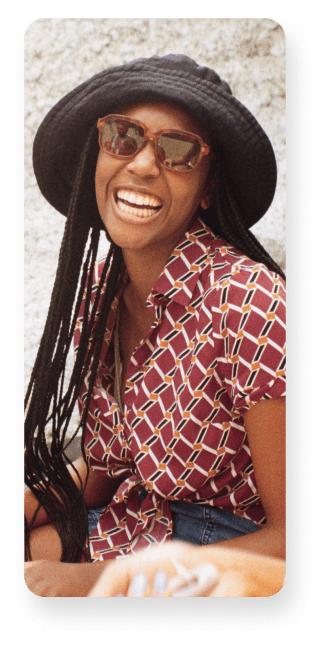
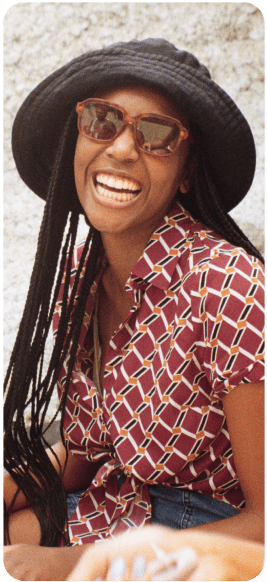
commit

diff --git a/index.html b/index.html
@@ -14,44 +14,69 @@
     />
   </head>
   <body>
+    <div class="navbar">
+      <div class="logo">
+        <img src="https://static.whatsapp.net/rsrc.php/yZ/r/JvsnINJ2CZv.svg" />
+      </div>
+      <div class="nav">
+        <p>Features</p>
+        <p>Privacy</p>
+        <p>Help Center</p>
+        <p>Blog</p>
+        <p>For Business</p>
+        <p>WhatsApp Web</p>
+        <p>Download</p>
+      </div>
+      <div class="bar">
+        <button>
+          Download
+          <i class="fa-solid fa-arrow-down"></i>
+        </button>
+      </div>
+    </div>
+
     <div class="main-container">
-      <div class="navbar">
-        <div class="logo">
-          <img src="./images.png1.png" alt="" width="50%" />
-        </div>
-        <div class="nav">
-          <h3>Features</h3>
-          <h3>Privacy</h3>
-          <h3>Help Center</h3>
-          <h3>Blog</h3>
-          <h3>For Business</h3>
-          <h3>WhatsApp Web</h3>
-          <h3>Download</h3>
-        </div>
-        <div class="bar">
-          <button>
-            Download
-            <i class="fa-solid fa-arrow-down"></i>
-          </button>
-        </div>
-      </div>
+      <div class="navbar-ki-jagah-pe-khali-div-with-height"></div>
       <!-- container1 -->
-      <div class="container1">
-        <div class="left-box">
-          <h1>Message privately</h1>
-          <p>
-            Simple, reliable, private messaging and calling for free*, available
-            all over the world.
-          </p>
-        </div>
-        <div class="right-box">
-          <img src="./download.png2.png" alt="" width="100%" />
-          <img src="./download.png3.png" alt="" />
-          <img src="./download.png4.png" alt="" width="80%" />
-          <img src="./download.png5.png" alt="" width="60%" />
-          <img src="./download.png6.png" alt="" />
+      <div class="container1-wrapper">
+        <div class="container1">
+          <div class="left-box">
+            <h1>Message privately</h1>
+            <p>
+              Simple, reliable, private messaging and calling for free*,
+              available all over the world.
+            </p>
+            <div class="bar2">
+              <button>
+                Download
+                <i class="fa-solid fa-arrow-down"></i>
+              </button>
+            </div>
+          </div>
+          <div class="right-box">
+            <div>
+              <img src="./download.png2.png" width="300px" alt="" />
+            </div>
+
+            <div>
+              <img src="./download.png3.png" width="100px" alt="" />
+            </div>
+
+            <div>
+              <img src="./download.png4.png" width="500px" alt="" />
+            </div>
+
+            <div>
+              <img src="./download.png5.png" width="300px" alt="" />
+            </div>
+
+            <div>
+              <img src="./download.png6.png" width="330px" alt="" />
+            </div>
+          </div>
         </div>
       </div>
+
       <div class="para">
         <p>* Data charges may apply. Contact your provider for details.</p>
       </div>
@@ -74,7 +99,7 @@
       </div>
 
       <!-- container5 -->
-      <div class="container5">
+      <!-- <div class="container5">
         <div class="left">
           <p>Never miss a moment with voice and video calls</p>
           <p>
@@ -87,9 +112,9 @@
         <div class="right">
           <img src="./download.png13.png" alt="" />
         </div>
-      </div>
+      </div> -->
       <!-- container6 -->
-      <div class="container6">
+      <!-- <div class="container6">
         <div class="left1">
           <img src="./download.png14.png" alt="" />
         </div>
@@ -102,9 +127,9 @@
           </p>
           <a href="">Learn more</a>
         </div>
-      </div>
+      </div> -->
       <!-- container7 -->
-      <div class="container7">
+      <!-- <div class="container7">
         <div class="left2">
           <p>Keep in touch with your groups</p>
           <p>
@@ -117,9 +142,9 @@
         <div class="right2">
           <img src="./download.png21.png" alt="" />
         </div>
-      </div>
+      </div> -->
       <!--container8  -->
-      <div class="container8">
+      <!-- <div class="container8">
         <div class="left11">
           <img src="./download.png31.png" alt="" />
           <img class="png" src="./download.png32.png" alt="" width="50%" />
@@ -136,9 +161,9 @@
           </p>
           <a href="">Learn more</a>
         </div>
-      </div>
+      </div> -->
       <!-- container9 -->
-      <div class="container9">
+      <!-- <div class="container9">
         <div class="left21">
           <p>
             Transform <br />
@@ -155,10 +180,10 @@
         <div class="right21">
           <img src="./31.png" alt="" />
         </div>
-      </div>
+      </div> -->
       <!-- container10 -->
-      <div class="container10">
-        <div >
+      <!-- <div class="container10">
+        <div>
           <img style="width: 200px" src="./images.png1.png" alt="" />
           <button>
             Download
@@ -193,7 +218,7 @@
           <h3>Download</h3>
           <h3>Security Advisories</h3>
         </div>
-      </div>
+      </div> -->
     </div>
   </body>
 </html>

diff --git a/style.css b/style.css
@@ -10,97 +10,151 @@
 .main-container {
   height: auto;
   width: 100%;
+  padding: 0 40px;
+  background-color: #fcf5eb;
 }
 
 .navbar {
-  height: 80px;
+  /* height: 80px; */
+  position: fixed;
+  z-index: 9999;
+  backdrop-filter: blur(4px);
+  background-color: rgba(252, 245, 235, 0.8);
+  padding: 20px 40px;
+  border-bottom: 1px solid rgb(221, 221, 221);
   width: 100%;
   display: flex;
   align-items: center;
   justify-content: space-between;
 }
 
+.navbar-ki-jagah-pe-khali-div-with-height {
+  height: 92px;
+}
+
 .logo {
-  width: 20%;
   display: flex;
   align-items: center;
   justify-content: center;
 }
 .nav {
-  width: 60%;
   display: flex;
-  align-items: center;
-  justify-content: space-between;
+  gap: 18px;
 }
 
 .bar {
-  width: 20%;
   display: flex;
   align-items: center;
   justify-content: center;
 }
 
 .bar button {
-  padding: 16px 32px;
+  padding: 16px 28px;
   border-radius: 32px;
   color: black;
-  background-color: green;
+  background-color: #25d366;
   border: 1px solid black;
-  font-size: 20px;
+  font-size: 16px;
+}
+
+.bar2 {
+  margin-top: 40px;
+  display: flex;
+  align-items: center;
+  justify-content: center;
+}
+
+.bar2 button {
+  padding: 16px 28px;
+  border-radius: 32px;
+  color: black;
+  background-color: #25d366;
+  border: 1px solid black;
+  font-size: 16px;
+}
+
+.container1-wrapper {
+  background-image: url(./1bg.png);
+  background-size: cover;
+  background-position-x: center;
+  background-position-y: top;
+  border-radius: 40px;
+  display: flex;
+  align-items: center;
+  justify-content: center;
+  padding: 90px 0;
 }
 
 .container1 {
-  margin-inline: 40px;
-  margin-top: 40px;
-  width: 100%;
-  height: 800px;
+  padding: 0 40px;
+  width: 1100px;
   display: flex;
-  border-radius: 40px;
-  background-image: url(./1bg.png);
-  background-size: cover;
-  background-position: center;
+  justify-content: space-between;
 }
 
 .left-box {
-  gap: 20px;
-  width: 50%;
+  max-width: 400px;
   display: flex;
-  align-items: center;
   flex-direction: column;
-  margin-left: 80px;
+  align-items: flex-start;
   justify-content: center;
-  align-items: center;
 }
 
 .left-box h1 {
+  width: 400px;
   font-size: 80px;
   color: white;
+  font-weight: 500;
 }
 .left-box p {
-  font-size: 24px;
+  font-size: 20px;
   color: white;
 }
 
 .right-box {
-  width: 50%;
   display: flex;
-  align-items: center;
+  justify-content: center;
+  width: 450px;
   flex-direction: column;
+}
+
+.right-box div:nth-child(2) {
+  display: flex;
+  justify-content: flex-end;
+}
+
+.right-box div:nth-child(5) {
+  display: flex;
+  justify-content: flex-end;
+  margin-top: 24px;
 }
 
 .para {
   display: flex;
   align-self: flex-end;
   justify-content: flex-end;
+  color: #5e5e5e;
+  line-height: 16px;
+  font-size: 12px;
+  opacity: 0.8;
+  margin-top: 12px;
+}
+
+.container2,
+.container4 {
+  padding: 0 200px;
 }
 
 .container3 {
-  padding: 60px 280px;
+  /* padding: 60px 280px; */
   display: flex;
   align-items: center;
   justify-content: center;
   text-align: center;
   font-size: 42px;
+}
+.container3 p {
+  max-width: 900px;
 }
 
 .container5 {
